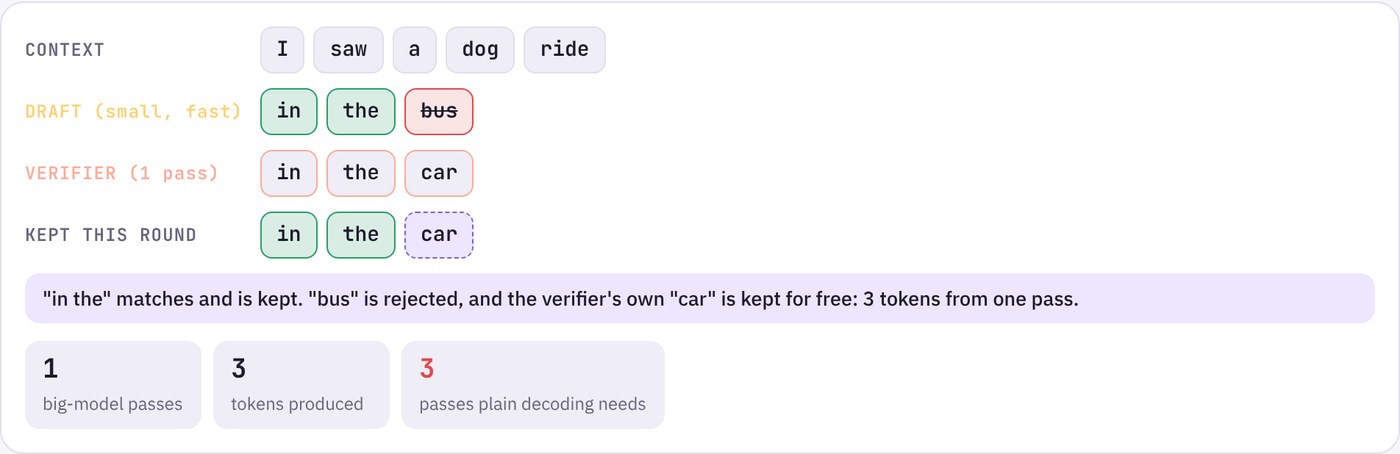
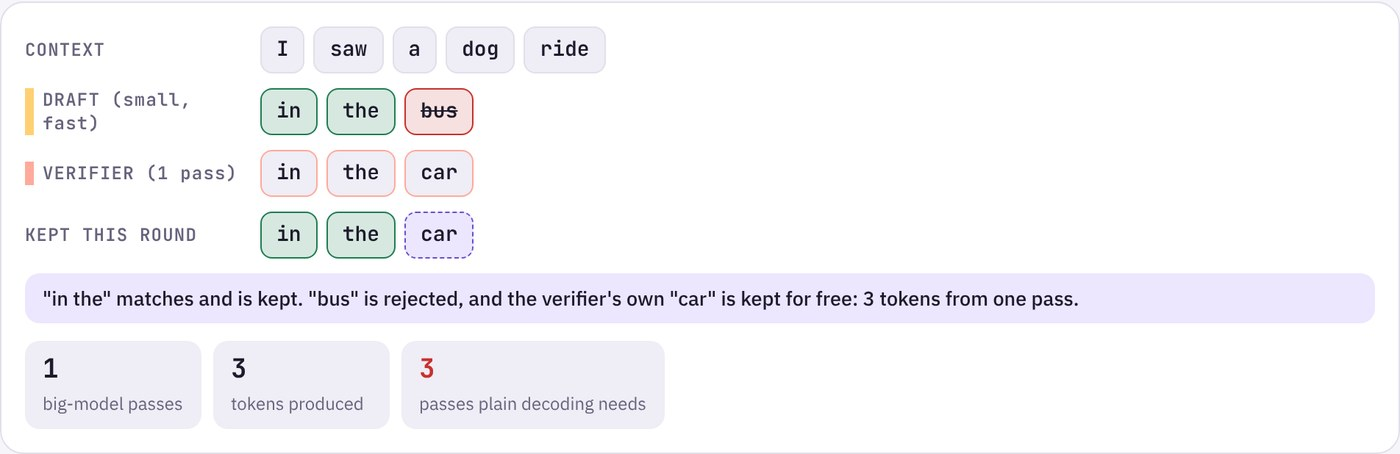
chore(posts): refresh figures from the latest interactive page (v8)
Claude-Session: https://claude.ai/code/session_01UFQWSUsJMaVbTV8uBDUF1U

Changed region(s): [[0.0, 0.185, 0.1843, 0.3084], [0.0, 0.3392, 0.1843, 0.4009], [0.3071, 0.185, 0.3379, 0.2159]]

diff --git a/posts/2026-11-14-how-llm-inference-works-visual-guide/index.html b/posts/2026-11-14-how-llm-inference-works-visual-guide/index.html
@@ -7,7 +7,7 @@
   <meta name="description" content="What a transformer computes at each step, and how serving systems make it fast: batching, KV cache, parallelism, attention variants and more, each shown as a visual of tensor shapes.">
   <meta property="og:title" content="How LLM Inference Works: A Visual Guide to the Core Concepts">
   <meta property="og:description" content="What a transformer computes at each step, and how serving systems make it fast: batching, KV cache, parallelism, attention variants and more, each shown as a visual of tensor shapes.">
-  <meta property="og:image" content="https://raw.githubusercontent.com/ylnhari/blog/main/posts/2026-11-14-how-llm-inference-works-visual-guide/images/01-architecture.jpg?v=7">
+  <meta property="og:image" content="https://raw.githubusercontent.com/ylnhari/blog/main/posts/2026-11-14-how-llm-inference-works-visual-guide/images/01-architecture.jpg?v=8">
   <title>How LLM Inference Works: A Visual Guide to the Core Concepts</title>
   <link rel="stylesheet" href="../../assets/style.css">
 </head>
@@ -42,7 +42,7 @@
 
 <p>A language model has exactly one job: <strong>given the text so far, predict the next token</strong>. A token is a word or a piece of a word. Everything else is machinery for that single prediction. Here is the machinery, in the shape almost every modern model uses (GPT, Llama, Claude, Gemini, Mistral). Data flows from the bottom to the top:</p>
 
-<img src="https://raw.githubusercontent.com/ylnhari/blog/main/posts/2026-11-14-how-llm-inference-works-visual-guide/images/01-architecture.jpg?v=7" alt="The decoder-only transformer, bottom to top: the tokenizer turns text into IDs, the embedding turns IDs into vectors, then a block of norm, attention, add, norm, MLP, add repeats L times, and finally an LM head and softmax pick the next token, which is appended to the input for the next round.">
+<img src="https://raw.githubusercontent.com/ylnhari/blog/main/posts/2026-11-14-how-llm-inference-works-visual-guide/images/01-architecture.jpg?v=8" alt="The decoder-only transformer, bottom to top: the tokenizer turns text into IDs, the embedding turns IDs into vectors, then a block of norm, attention, add, norm, MLP, add repeats L times, and finally an LM head and softmax pick the next token, which is appended to the input for the next round.">
 
 <p>In plain words:</p>
 
@@ -67,7 +67,7 @@
 
 <p>The query of "it" is compared with the key of every earlier word. A step called <strong>softmax</strong> turns those match scores into shares that add up to 100%. The best matches get the biggest share, and the new vector for "it" becomes a weighted mix of their values:</p>
 
-<img src="https://raw.githubusercontent.com/ylnhari/blog/main/posts/2026-11-14-how-llm-inference-works-visual-guide/images/02-attention.jpg?v=7" alt="Attention for the query "it": arcs show most of the weight, 65%, going to "animal", so the new vector for "it" is mostly the meaning of "animal". Below, the three steps: raw scores, softmax weights, and the mixed output.">
+<img src="https://raw.githubusercontent.com/ylnhari/blog/main/posts/2026-11-14-how-llm-inference-works-visual-guide/images/02-attention.jpg?v=8" alt="Attention for the query "it": arcs show most of the weight, 65%, going to "animal", so the new vector for "it" is mostly the meaning of "animal". Below, the three steps: raw scores, softmax weights, and the mixed output.">
 
 <p>A model runs many of these lookups side by side, called <strong>heads</strong>. Each head has its own query, key and value weights, so each learns to look for something different: one might link pronouns to nouns, another might focus on the previous word. Words in the future are hidden, because a model that predicts the next word cannot be allowed to peek at it.</p>
 
@@ -75,7 +75,7 @@
 
 <p>Once text is inside the model, everything is a block of numbers with a <strong>shape</strong>. Here is the query block from attention, drawn in 3D and cut into one slice per head:</p>
 
-<img src="https://raw.githubusercontent.com/ylnhari/blog/main/posts/2026-11-14-how-llm-inference-works-visual-guide/images/03-tensor-shapes.jpg?v=7" alt="The query tensor [b, s, h] drawn as a 3D block and cut along h into four colour-coded heads, each one head wide, with the shape glossary below.">
+<img src="https://raw.githubusercontent.com/ylnhari/blog/main/posts/2026-11-14-how-llm-inference-works-visual-guide/images/03-tensor-shapes.jpg?v=8" alt="The query tensor [b, s, h] drawn as a 3D block and cut along h into four colour-coded heads, each one head wide, with the shape glossary below.">
 
 <p>Nearly every paper about LLM systems writes the main block as <code>[b, s, h]</code>:</p>
 
@@ -91,15 +91,15 @@
 
 <p>Running a model happens in two very different phases. First, the whole prompt goes through at once. This phase is called <strong>prefill</strong>. All the prompt tokens form one big matrix, and the GPU's arithmetic units are kept busy:</p>
 
-<img src="https://raw.githubusercontent.com/ylnhari/blog/main/posts/2026-11-14-how-llm-inference-works-visual-guide/images/04-prefill.jpg?v=7" alt="Prefill: five prompt tokens form a 5-row matrix X that is multiplied by the weights W in one pass, and their keys and values fill the KV cache. The compute bar is nearly full.">
+<img src="https://raw.githubusercontent.com/ylnhari/blog/main/posts/2026-11-14-how-llm-inference-works-visual-guide/images/04-prefill.jpg?v=8" alt="Prefill: five prompt tokens form a 5-row matrix X that is multiplied by the weights W in one pass, and their keys and values fill the KV cache. The compute bar is nearly full.">
 
 <p>Then the reply is written one token at a time. This phase is called <strong>decode</strong>. Each step multiplies a single row by the <em>same</em> full set of weights, which must be read from GPU memory again every step. The arithmetic is tiny, but the reading is huge, so the GPU spends most of its time waiting on memory:</p>
 
-<img src="https://raw.githubusercontent.com/ylnhari/blog/main/posts/2026-11-14-how-llm-inference-works-visual-guide/images/05-decode.jpg?v=7" alt="Decode: a single new token is a 1-row matrix multiplied by the full weight matrix. Only one KV entry is added, and the compute bar is nearly empty: the step is limited by memory, not maths.">
+<img src="https://raw.githubusercontent.com/ylnhari/blog/main/posts/2026-11-14-how-llm-inference-works-visual-guide/images/05-decode.jpg?v=8" alt="Decode: a single new token is a 1-row matrix multiplied by the full weight matrix. Only one KV entry is added, and the compute bar is nearly empty: the step is limited by memory, not maths.">
 
 <p>To avoid recomputing the past at every step, the model saves each token's keys and values in a <strong>KV cache</strong>. The cache grows with every token and every conversation. A 7-billion-parameter model in 16-bit precision needs <a href="https://developer.nvidia.com/blog/mastering-llm-techniques-inference-optimization/">about 14 GB</a> just for its weights, and one 4,096-token conversation adds <a href="https://developer.nvidia.com/blog/mastering-llm-techniques-inference-optimization/">about 2 GB</a> of cache. Multiply that by dozens of users and memory runs out long before arithmetic does:</p>
 
-<img src="https://raw.githubusercontent.com/ylnhari/blog/main/posts/2026-11-14-how-llm-inference-works-visual-guide/images/06-kv-cache.jpg?v=7" alt="KV cache calculator for Llama 2 7B at batch 1 and 4,096 tokens: 14 GB of weights plus 2.15 GB of KV cache on an 80 GB GPU, with the formula filled in.">
+<img src="https://raw.githubusercontent.com/ylnhari/blog/main/posts/2026-11-14-how-llm-inference-works-visual-guide/images/06-kv-cache.jpg?v=8" alt="KV cache calculator for Llama 2 7B at batch 1 and 4,096 tokens: 14 GB of weights plus 2.15 GB of KV cache on an 80 GB GPU, with the formula filled in.">
 
 <blockquote>During decode, the GPU is not busy doing maths. It is busy fetching numbers from memory.</blockquote>
 
@@ -109,11 +109,11 @@
 
 <p>If decode spends its time reading the weights, the obvious fix is to make each read count for more. Put several conversations in one <strong>batch</strong>, and every read of the weights serves all of them at once. The catch is that replies finish at different times. In <strong>static batching</strong>, the whole batch waits for its longest reply, and finished slots sit empty. In <strong>in-flight batching</strong> (also called continuous batching), a finished conversation leaves straight away and a waiting one takes its slot on the next step:</p>
 
-<img src="https://raw.githubusercontent.com/ylnhari/blog/main/posts/2026-11-14-how-llm-inference-works-visual-guide/images/07-batching.jpg?v=7" alt="Two timelines of four batch slots. Static batching takes 31 steps with slots idle 40% of the time while waiting for the longest request; in-flight batching refills each slot as soon as it frees up and finishes the same twelve requests in 23 steps.">
+<img src="https://raw.githubusercontent.com/ylnhari/blog/main/posts/2026-11-14-how-llm-inference-works-visual-guide/images/07-batching.jpg?v=8" alt="Two timelines of four batch slots. Static batching takes 31 steps with slots idle 40% of the time while waiting for the longest request; in-flight batching refills each slot as soon as it frees up and finishes the same twelve requests in 23 steps.">
 
 <p>Batching only helps if there is room in memory for many KV caches. Older servers reserved one long, unbroken stretch of memory per conversation, sized for the longest reply it <em>might</em> write. NVIDIA's example: a model with a 2,048-token limit <a href="https://developer.nvidia.com/blog/mastering-llm-techniques-inference-optimization/">reserves room for all 2,048 tokens</a> even when the reply is short, and the unused part is wasted. <strong>PagedAttention</strong> borrows an idea from operating systems. It cuts the cache into small fixed-size blocks, hands them out only as tokens arrive, and keeps a table of which block lives where, so a conversation's blocks need not sit next to each other:</p>
 
-<img src="https://raw.githubusercontent.com/ylnhari/blog/main/posts/2026-11-14-how-llm-inference-works-visual-guide/images/08-paged-attention.jpg?v=7" alt="KV memory drawn as 32 physical blocks of 8 token slots, shared by eight requests whose blocks are scattered across memory. A block table maps each request's logical blocks to physical ones; 89% of memory now holds real tokens.">
+<img src="https://raw.githubusercontent.com/ylnhari/blog/main/posts/2026-11-14-how-llm-inference-works-visual-guide/images/08-paged-attention.jpg?v=8" alt="KV memory drawn as 32 physical blocks of 8 token slots, shared by eight requests whose blocks are scattered across memory. A block table maps each request's logical blocks to physical ones; 89% of memory now holds real tokens.">
 
 <p>Less waste per conversation means more conversations fit, which means bigger batches, which means each read of the weights does more work. Serving engines such as vLLM and TensorRT-LLM use both ideas.</p>
 
@@ -121,13 +121,13 @@
 
 <p>The KV cache holds a key and a value for every head. But the heads do not each need their own. In <strong>grouped-query attention</strong> (GQA), several query heads share one key head and one value head, so the cache shrinks by the size of the group. <strong>Multi-query attention</strong> (MQA) is the extreme case, where every query head shares a single key and value head. Llama 2 70B is <a href="https://developer.nvidia.com/blog/mastering-llm-techniques-inference-optimization/">one well-known model that uses GQA</a>:</p>
 
-<img src="https://raw.githubusercontent.com/ylnhari/blog/main/posts/2026-11-14-how-llm-inference-works-visual-guide/images/09-gqa.jpg?v=7" alt="Eight query heads, Q0 to Q7, wired to only two key/value heads: Q0 to Q3 share K0 and V0, Q4 to Q7 share K1 and V1. The KV cache is 25% of what standard multi-head attention would need.">
+<img src="https://raw.githubusercontent.com/ylnhari/blog/main/posts/2026-11-14-how-llm-inference-works-visual-guide/images/09-gqa.jpg?v=8" alt="Eight query heads, Q0 to Q7, wired to only two key/value heads: Q0 to Q3 share K0 and V0, Q4 to Q7 share K1 and V1. The KV cache is 25% of what standard multi-head attention would need.">
 
 <p>Sharing heads costs a little quality, and an existing model can be converted rather than retrained: NVIDIA notes that turning a model into MQA needs fine-tuning on <a href="https://developer.nvidia.com/blog/mastering-llm-techniques-inference-optimization/">about 5% of the original training volume</a>.</p>
 
 <p>The second cost in attention is less obvious. Standard attention builds the full table of scores, one for every pair of tokens, and writes that table to the GPU's large but slow main memory (HBM) and reads it back. For long inputs that table is enormous. <strong>FlashAttention</strong> never builds it. It works on one small tile at a time inside the GPU's tiny but very fast on-chip memory (SRAM), keeping a running total so the softmax still comes out exactly right:</p>
 
-<img src="https://raw.githubusercontent.com/ylnhari/blog/main/posts/2026-11-14-how-llm-inference-works-visual-guide/images/10-flash-attention.jpg?v=7" alt="FlashAttention: Q, K and V stay in HBM, but the N by N score matrix is never stored. Only one tile exists at a time, in SRAM, while a running maximum and sum accumulate the output. Score traffic through HBM drops to zero, with the same O(N squared) compute and an exact result.">
+<img src="https://raw.githubusercontent.com/ylnhari/blog/main/posts/2026-11-14-how-llm-inference-works-visual-guide/images/10-flash-attention.jpg?v=8" alt="FlashAttention: Q, K and V stay in HBM, but the N by N score matrix is never stored. Only one tile exists at a time, in SRAM, while a running maximum and sum accumulate the output. Score traffic through HBM drops to zero, with the same O(N squared) compute and an exact result.">
 
 <p>The maths is the same, and so is the answer. What changes is how many times data crosses the slow path to main memory. That is the theme of this whole guide again.</p>
 
@@ -137,23 +137,23 @@
 
 <p><strong>Quantization</strong> stores each number with fewer bits. Models are usually trained with 16 or 32 bits per value, but most can be represented <a href="https://developer.nvidia.com/blog/mastering-llm-techniques-inference-optimization/">with eight or even fewer</a>. Each weight snaps to the nearest of a small set of levels:</p>
 
-<img src="https://raw.githubusercontent.com/ylnhari/blog/main/posts/2026-11-14-how-llm-inference-works-visual-guide/images/11-quantization.jpg?v=7" alt="Weights from a bell-shaped distribution, top, each snapped down to one of 15 evenly spaced INT4 levels, bottom. The mean error is 0.118, and a 7B model's weights fall to 3.5 GB.">
+<img src="https://raw.githubusercontent.com/ylnhari/blog/main/posts/2026-11-14-how-llm-inference-works-visual-guide/images/11-quantization.jpg?v=8" alt="Weights from a bell-shaped distribution, top, each snapped down to one of 15 evenly spaced INT4 levels, bottom. The mean error is 0.118, and a 7B model's weights fall to 3.5 GB.">
 
 <p>Weights are the easy part, because they are fixed after training. The values flowing through the model are harder, because they contain occasional very large <strong>outliers</strong>. One outlier stretches the scale, and every other value loses precision. Much of the research in this area is about handling those outliers.</p>
 
 <p><strong>Sparsity</strong> sets some weights to zero. Random zeros barely help, because the GPU still has to check every position. But recent NVIDIA GPUs have hardware for one fixed pattern: <a href="https://developer.nvidia.com/blog/mastering-llm-techniques-inference-optimization/">two zeros in every group of four</a>. The zeros are dropped from storage, a small index records where the survivors were, and the hardware skips the missing work:</p>
 
-<img src="https://raw.githubusercontent.com/ylnhari/blog/main/posts/2026-11-14-how-llm-inference-works-visual-guide/images/12-sparsity.jpg?v=7" alt="A 4 by 16 weight matrix pruned 2:4: in every group of four values, the two smallest are set to zero, shown hatched. 32 non-zero values are stored with a small metadata index.">
+<img src="https://raw.githubusercontent.com/ylnhari/blog/main/posts/2026-11-14-how-llm-inference-works-visual-guide/images/12-sparsity.jpg?v=8" alt="A 4 by 16 weight matrix pruned 2:4: in every group of four values, the two smallest are set to zero, shown hatched. 32 non-zero values are stored with a small metadata index.">
 
 <p><strong>Distillation</strong> trains a smaller <em>student</em> model to copy a larger <em>teacher</em>. The trick is to learn from the teacher's whole spread of guesses rather than only the right answer. "Mat" is correct, but "rug" being a close second carries information too. The classic result is DistilBERT, which <a href="https://developer.nvidia.com/blog/mastering-llm-techniques-inference-optimization/">compresses BERT by 40% while keeping 97% of its language understanding, and runs 60% faster</a>:</p>
 
-<img src="https://raw.githubusercontent.com/ylnhari/blog/main/posts/2026-11-14-how-llm-inference-works-visual-guide/images/13-distillation.jpg?v=7" alt="Next-word probabilities for 'The cat sat on the ___'. The hard label puts everything on 'mat'; the teacher's soft target gives mat 66%, rug 16%, floor 11%, sofa 6%. The student is trained on a mix of both.">
+<img src="https://raw.githubusercontent.com/ylnhari/blog/main/posts/2026-11-14-how-llm-inference-works-visual-guide/images/13-distillation.jpg?v=8" alt="Next-word probabilities for 'The cat sat on the ___'. The hard label puts everything on 'mat'; the teacher's soft target gives mat 66%, rug 16%, floor 11%, sofa 6%. The student is trained on a mix of both.">
 
 <h2>7. Guessing ahead</h2>
 
 <p>Decode is slow because each token waits for the one before it. <strong>Speculative decoding</strong> gets around that. A small, fast <em>draft</em> model guesses the next few tokens. The big model then checks all the guesses in a single pass, which costs about the same as producing one token, because the weights are read once either way. It keeps the guesses up to the first wrong one, and adds its own token at that point:</p>
 
-<img src="https://raw.githubusercontent.com/ylnhari/blog/main/posts/2026-11-14-how-llm-inference-works-visual-guide/images/14-speculative-decoding.jpg?v=7" alt="After the prompt 'I saw a dog ride', the draft model guesses 'in the bus'. The verifier agrees with 'in the' and replaces 'bus' with 'car', so one pass of the big model produces three tokens.">
+<img src="https://raw.githubusercontent.com/ylnhari/blog/main/posts/2026-11-14-how-llm-inference-works-visual-guide/images/14-speculative-decoding.jpg?v=8" alt="After the prompt 'I saw a dog ride', the draft model guesses 'in the bus'. The verifier agrees with 'in the' and replaces 'bus' with 'car', so one pass of the big model produces three tokens.">
 
 <p>The output is exactly what the big model would have written on its own. When the draft guesses well, several tokens come out of each pass of the big model. When it guesses badly, you lose a little time on the draft and nothing else.</p>
 
@@ -163,35 +163,35 @@
 
 <p>At two bytes per number, a 70-billion-parameter model is 140 GB of weights, already more than a common 80 GB data-centre GPU holds, before any KV cache. So big models are split across several GPUs. There are a few ways to make the split, and each answers the same question: <strong>which dimension of which block gets cut, and what has to travel between GPUs as a result?</strong></p>
 
-<img src="https://raw.githubusercontent.com/ylnhari/blog/main/posts/2026-11-14-how-llm-inference-works-visual-guide/images/15-gpus-needed.jpg?v=7" alt="Each box is one 80 GB GPU filled with weights only: 7B and 13B models fit on one, a 70B model needs at least two, and a 405B model needs at least eleven.">
+<img src="https://raw.githubusercontent.com/ylnhari/blog/main/posts/2026-11-14-how-llm-inference-works-visual-guide/images/15-gpus-needed.jpg?v=8" alt="Each box is one 80 GB GPU filled with weights only: 7B and 13B models fit on one, a 70B model needs at least two, and a 405B model needs at least eleven.">
 
 <p>The simplest is <strong>data parallelism</strong>: copy the whole model onto every GPU and send different conversations to each. It multiplies throughput and needs no communication, but it only works if the model fits on one GPU in the first place:</p>
 
-<img src="https://raw.githubusercontent.com/ylnhari/blog/main/posts/2026-11-14-how-llm-inference-works-visual-guide/images/16-data-parallel.jpg?v=7" alt="Data parallelism: four GPUs each hold a full 14 GB copy of a 7B model and serve different requests, with no traffic between them.">
+<img src="https://raw.githubusercontent.com/ylnhari/blog/main/posts/2026-11-14-how-llm-inference-works-visual-guide/images/16-data-parallel.jpg?v=8" alt="Data parallelism: four GPUs each hold a full 14 GB copy of a 7B model and serve different requests, with no traffic between them.">
 
 <p><strong>Pipeline parallelism</strong> gives each GPU a slice of the layers, like an assembly line. With four stages, each GPU holds <a href="https://developer.nvidia.com/blog/mastering-llm-techniques-inference-optimization/">a quarter of the weights</a>. The problem is waiting: GPU 3 has nothing to do until GPU 0 has finished. Splitting the batch into smaller <strong>microbatches</strong> keeps more stages busy at once, but the idle "bubble" at the start and end never fully goes away:</p>
 
-<img src="https://raw.githubusercontent.com/ylnhari/blog/main/posts/2026-11-14-how-llm-inference-works-visual-guide/images/17-pipeline-parallel.jpg?v=7" alt="Pipeline parallelism: 32 layers split into four stages on four GPUs. With the batch split into four microbatches, each GPU starts one step after the one before it; hatched areas show idle time, 43% of the total.">
+<img src="https://raw.githubusercontent.com/ylnhari/blog/main/posts/2026-11-14-how-llm-inference-works-visual-guide/images/17-pipeline-parallel.jpg?v=8" alt="Pipeline parallelism: 32 layers split into four stages on four GPUs. With the batch split into four microbatches, each GPU starts one step after the one before it; hatched areas show idle time, 43% of the total.">
 
 <p>Pipelining helps a model fit and adds throughput once the pipeline is full. It never makes a single request faster.</p>
 
 <p><strong>Tensor parallelism</strong> splits the weight matrices <em>inside</em> every layer, so all GPUs work on every token together. It rests on one neat trick. Split the MLP's first weight matrix by columns and the second by rows. Each GPU can then do both multiplications on its own half, with no talking in between, and one combining step at the end (an <strong>All-Reduce</strong>) adds the halves up:</p>
 
-<img src="https://raw.githubusercontent.com/ylnhari/blog/main/posts/2026-11-14-how-llm-inference-works-visual-guide/images/18-tp-matmul-trick.jpg?v=7" alt="Tensor parallelism in the MLP: A is split by columns and B by rows, so each GPU computes its own half and a partial sum, and one All-Reduce combines them. There is no communication between the two matrix multiplies.">
+<img src="https://raw.githubusercontent.com/ylnhari/blog/main/posts/2026-11-14-how-llm-inference-works-visual-guide/images/18-tp-matmul-trick.jpg?v=8" alt="Tensor parallelism in the MLP: A is split by columns and B by rows, so each GPU computes its own half and a partial sum, and one All-Reduce combines them. There is no communication between the two matrix multiplies.">
 
 <p>That combining step happens twice in every layer, so tensor parallelism needs the very fast links found <em>inside</em> one server. Real systems mix the methods: tensor parallelism inside a server, pipeline parallelism across servers, and data parallelism to add more copies for more users. Here is one such layout, sixteen GPUs in two servers:</p>
 
-<img src="https://raw.githubusercontent.com/ylnhari/blog/main/posts/2026-11-14-how-llm-inference-works-visual-guide/images/21-combined-parallelism.jpg?v=7" alt="Two servers of eight GPUs. Inside each server, eight GPUs form one tensor-parallel group sharing the fast NVLink connection; the two servers are independent copies, so data parallelism of 2 doubles throughput.">
+<img src="https://raw.githubusercontent.com/ylnhari/blog/main/posts/2026-11-14-how-llm-inference-works-visual-guide/images/21-combined-parallelism.jpg?v=8" alt="Two servers of eight GPUs. Inside each server, eight GPUs form one tensor-parallel group sharing the fast NVLink connection; the two servers are independent copies, so data parallelism of 2 doubles throughput.">
 
 <h2>9. The copies tensor parallelism leaves behind</h2>
 
 <p>Tensor parallelism has a blind spot. Between the split blocks, every GPU holds the <em>same</em> full block of <strong>activations</strong> (the in-between numbers that flow from one layer to the next) and runs the same normalisation step on it. The same data, stored twice:</p>
 
-<img src="https://raw.githubusercontent.com/ylnhari/blog/main/posts/2026-11-14-how-llm-inference-works-visual-guide/images/19-tp-copies.jpg?v=7" alt="Under tensor parallelism, LayerNorm runs on an identical full [b, s, h] block on both GPUs: activations at 100% on each, marked as duplicates.">
+<img src="https://raw.githubusercontent.com/ylnhari/blog/main/posts/2026-11-14-how-llm-inference-works-visual-guide/images/19-tp-copies.jpg?v=8" alt="Under tensor parallelism, LayerNorm runs on an identical full [b, s, h] block on both GPUs: activations at 100% on each, marked as duplicates.">
 
 <p>Normalisation treats each token on its own, so the fix is to cut that block along the <strong>sequence</strong> instead: each GPU handles half the tokens. This is called <strong>sequence parallelism</strong>, and it removes the copies without adding any communication:</p>
 
-<img src="https://raw.githubusercontent.com/ylnhari/blog/main/posts/2026-11-14-how-llm-inference-works-visual-guide/images/20-sequence-split.jpg?v=7" alt="Sequence parallelism: the same block cut along s, so GPU 0 holds tokens 0 to 3 and GPU 1 holds tokens 4 to 7, each at 50% of the activation memory with no copies.">
+<img src="https://raw.githubusercontent.com/ylnhari/blog/main/posts/2026-11-14-how-llm-inference-works-visual-guide/images/20-sequence-split.jpg?v=8" alt="Sequence parallelism: the same block cut along s, so GPU 0 holds tokens 0 to 3 and GPU 1 holds tokens 4 to 7, each at 50% of the activation memory with no copies.">
 
 <p>The research that introduced this pairing reports that, together with smarter recomputation, it <a href="https://arxiv.org/abs/2205.05198">cuts activation memory by 5×</a>.</p>
 
@@ -199,7 +199,7 @@
 
 <p>One more trick changes the model itself. In a <strong>mixture-of-experts</strong> (MoE) model, the single MLP in each block is replaced by several smaller MLPs, called <em>experts</em>, plus a tiny <strong>router</strong> that picks a few experts for each token. Every other expert sits idle for that token:</p>
 
-<img src="https://raw.githubusercontent.com/ylnhari/blog/main/posts/2026-11-14-how-llm-inference-works-visual-guide/images/23-mixture-of-experts.jpg?v=7" alt="A mixture-of-experts layer: the router sends the token 'The' to two of eight experts, expert 0 with weight 0.49 and expert 4 with weight 0.51, while the other six stay idle. The output is the weighted sum of the two chosen experts, and the shape stays [b, s, h].">
+<img src="https://raw.githubusercontent.com/ylnhari/blog/main/posts/2026-11-14-how-llm-inference-works-visual-guide/images/23-mixture-of-experts.jpg?v=8" alt="A mixture-of-experts layer: the router sends the token 'The' to two of eight experts, expert 0 with weight 0.49 and expert 4 with weight 0.51, while the other six stay idle. The output is the weighted sum of the two chosen experts, and the shape stays [b, s, h].">
 
 <p>Mixtral 8×7B is the well-known example: it has <a href="https://mistral.ai/news/mixtral-of-experts">eight experts per block and uses two of them for each token</a>, so it <a href="https://mistral.ai/news/mixtral-of-experts">stores 46.7B parameters but uses only 12.9B per token</a>. That split matters for serving. The memory you need follows the total, because every expert has to be loaded. The work per token follows the active part, so a token costs about what a much smaller model would. When the experts no longer fit on one GPU, they are spread across several. That is <strong>expert parallelism</strong>, the fifth way to split a model, and it needs its own communication step to send each token to the GPU that holds its experts.</p>
 
@@ -207,7 +207,7 @@
 
 <p>All of that stored activation memory is mostly a <em>training</em> problem. To learn, a model runs backwards through every layer, and each step backwards needs the numbers that went into that layer on the way forward. Training also stores gradients and optimiser state for every weight. Running a model forward only needs the weights and the KV cache:</p>
 
-<img src="https://raw.githubusercontent.com/ylnhari/blog/main/posts/2026-11-14-how-llm-inference-works-visual-guide/images/22-training-memory.jpg?v=7" alt="Estimated memory for a 7B model at 4,096 tokens: about 16 GB to serve (weights plus KV cache) against about 216 GB to train (weights, gradients, optimiser state and stored activations).">
+<img src="https://raw.githubusercontent.com/ylnhari/blog/main/posts/2026-11-14-how-llm-inference-works-visual-guide/images/22-training-memory.jpg?v=8" alt="Estimated memory for a 7B model at 4,096 tokens: about 16 GB to serve (weights plus KV cache) against about 216 GB to train (weights, gradients, optimiser state and stored activations).">
 
 <p>The training bar is an estimate. It assumes the usual 16 bytes per weight for training with the Adam optimiser in mixed precision, plus the per-layer activation formula from <a href="https://arxiv.org/abs/2205.05198">the same sequence-parallelism paper</a>. The interactive page lets you switch on recomputation and watch the activation bar collapse.</p>
 

diff --git a/posts/2026-11-14-how-llm-inference-works-visual-guide/charts/make_screens.py b/posts/2026-11-14-how-llm-inference-works-visual-guide/charts/make_screens.py
@@ -56,9 +56,9 @@ with sync_playwright() as p:
     pg.click('#pp-m button:text-is("4")')
     save(pg.locator("#par-pp .fig").first, "17-pipeline-parallel")
     save(pg.locator("#par-tpc .fig"), "18-tp-matmul-trick")
-    pg.click('#cube-seg button:text-is("TP · LayerNorm (copied)")')
+    pg.click('#cube-seg button:text-is("TP · at LayerNorm (copied)")')
     save(pg.locator("#par-sp .fig").first, "19-tp-copies")
-    pg.click('#cube-seg button:text-is("SP · split s")')
+    pg.click('#cube-seg button:text-is("TP + SP · at LayerNorm (split s)")')
     save(pg.locator("#par-sp .fig").first, "20-sequence-split")
     save(pg.locator("#par-combo .fig").first, "21-combined-parallelism")
     pg.click('#md-seg button:text-is("Mixture of Experts")'); pg.wait_for_timeout(400)
